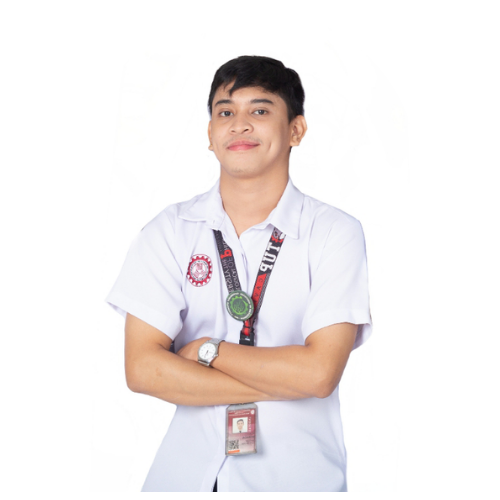
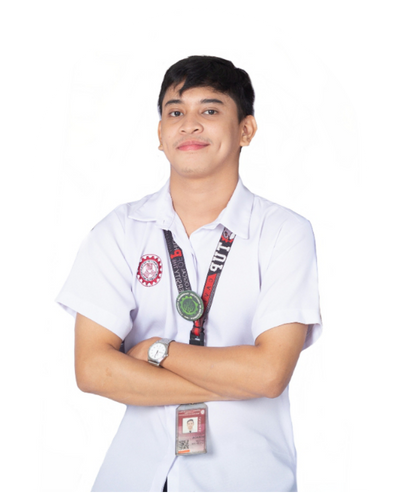
about

diff --git a/css/style.css b/css/style.css
@@ -198,7 +198,7 @@ button a {
     height: 350px;
 }
 .image2 {
-    width: 400px;
+    width: 320px;
     height: 400px;
 }
 
@@ -230,7 +230,7 @@ button a {
         height: 350px;
     }
     .image2 {
-        width: 400px;
+        width: 320px;
         height: 400px;
     }
     .label {
@@ -306,7 +306,7 @@ button a {
         height: 200px;
     }
     .image2 {
-        width: 300px;
+        width: 250px;
         height: 300px;
     }
     
